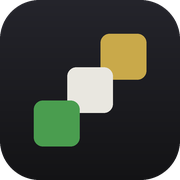
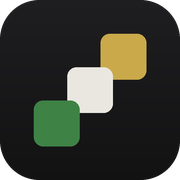
Tek palet: simgeler renkleri style.css'ten okur, iOS simgesi ve açılış ekranı
ikon_uret.py artık sabit renk taşımaz ve Linux'ta da çalışır (Liberation /
DejaVu yedeği). tools/uygulama/simge-1024.png (opak, köşesiz) ve
acilis-2732.png üretilir.

Claude-Session: https://claude.ai/code/session_01C8YUUGzBwuF5YnZnuwjbBR

Changed region(s): [[0.1667, 0.5556, 0.4444, 0.8333], [0.6111, 0.5833, 0.6389, 0.6111]]

diff --git a/tools/ikon_uret.py b/tools/ikon_uret.py
@@ -1,37 +1,75 @@
 #!/usr/bin/env python3
 # -*- coding: utf-8 -*-
 """
-Sözcük Merdiveni — favicon ve sosyal kart üretici
---------------------------------------------------
-Pillow ile markalı ikonları çizer (favicon.svg / og-image.svg ile aynı motif):
-koyu zeminde yükselen üç kutu (yeşil → krem → amber) — kelime oyunu + merdiven.
+Sözcük Merdiveni — simge, sosyal kart ve uygulama görseli üretici
+------------------------------------------------------------------
+Pillow ile marka işaretini çizer: koyu zeminde yükselen üç kutu
+(yeşil → krem → amber) — kelime oyunu + merdiven.
 
-Üretilenler (proje köküne):
-  favicon.ico            16/32/48 çok boyutlu (klasik, Google + tarayıcılar)
-  favicon-48.png         Google arama sonucu ikonu
-  favicon-192.png        Android
-  apple-touch-icon.png   180x180, iOS ana ekran
-  og-image.png           1200x630 sosyal paylaşım kartı
+Renkler bu dosyada YAZMAZ: style.css içindeki :root belirteçlerinden okunur
+(tek palet; bkz. ekip/tasarim-sistemi.md). favicon.svg ve tools/og-image.svg
+aynı değerlerin elle tutulan kopyasıdır; tools/test_veri.py eşleşmeyi denetler.
+
+Üretilenler:
+  favicon.ico                    16/32/48 çok boyutlu (Google + tarayıcılar)
+  favicon-48.png                 Google arama sonucu ikonu
+  favicon-192.png                Android
+  apple-touch-icon.png           180x180, iOS ana ekran
+  og-image.png                   1200x630 sosyal paylaşım kartı
+  tools/uygulama/simge-1024.png  iOS uygulama simgesi: opak RGB, köşesiz
+  tools/uygulama/acilis-2732.png iOS açılış ekranı: zemin + ortada işaret
 
 Kullanım:  python3 tools/ikon_uret.py
-(Yeniden çalıştırmak için Pillow gerekir: pip install Pillow)
+(Pillow gerekir: pip install Pillow)
 """
 
+import re
+import sys
 from pathlib import Path
 from PIL import Image, ImageDraw, ImageFont
 
 KOK = Path(__file__).resolve().parent.parent
-FONT_BOLD = "/System/Library/Fonts/Supplemental/Arial Bold.ttf"
-FONT_REG = "/System/Library/Fonts/Supplemental/Arial.ttf"
+UYGULAMA = KOK / "tools" / "uygulama"
 
-KOYU_UST = (36, 36, 43)      # #24242b
-KOYU_ALT = (19, 19, 21)      # #131315
-YESIL = (74, 157, 79)        # #4a9d4f
-KREM = (233, 231, 224)       # #e9e7e0
-AMBER = (201, 169, 74)       # #c9a94a
-GRI = (154, 154, 160)
-GRI2 = (201, 201, 208)
-BEYAZ = (245, 245, 247)
+
+def belirtec_oku():
+    """style.css :root bloğundaki hex renkleri {ad: (r, g, b)} olarak döndürür."""
+    css = (KOK / "style.css").read_text(encoding="utf-8")
+    kok = css[css.index(":root"):]
+    kok = kok[:kok.index("}")]
+    return {ad: tuple(int(h[i:i + 2], 16) for i in (0, 2, 4))
+            for ad, h in re.findall(r"--([\w-]+):\s*#([0-9a-fA-F]{6})\b", kok)}
+
+
+RENK = belirtec_oku()
+ZEMIN_UST = RENK["surface"]
+ZEMIN_ALT = RENK["bg"]
+YESIL = RENK["green"]
+KREM = RENK["cream"]
+AMBER = RENK["amber"]
+METIN = RENK["text"]
+SOLUK = RENK["text-dim"]
+
+
+def font_bul(adaylar):
+    """İlk bulunan yazı tipi dosyası. Arial ile Liberation Sans aynı ölçülere
+    sahiptir; kart macOS'ta da Linux'ta da aynı yerleşimle çıkar."""
+    for yol in adaylar:
+        if Path(yol).exists():
+            return yol
+    sys.exit("Yazı tipi bulunamadı. Şunlardan biri kurulu olmalı:\n  " + "\n  ".join(adaylar))
+
+
+FONT_BOLD = font_bul([
+    "/System/Library/Fonts/Supplemental/Arial Bold.ttf",
+    "/usr/share/fonts/truetype/liberation/LiberationSans-Bold.ttf",
+    "/usr/share/fonts/truetype/dejavu/DejaVuSans-Bold.ttf",
+])
+FONT_REG = font_bul([
+    "/System/Library/Fonts/Supplemental/Arial.ttf",
+    "/usr/share/fonts/truetype/liberation/LiberationSans-Regular.ttf",
+    "/usr/share/fonts/truetype/dejavu/DejaVuSans.ttf",
+])
 
 SS = 4  # süper örnekleme (kenarlar yumuşasın diye yüksek çöz + küçültme)
 
@@ -45,25 +83,42 @@ def dikey_gradyan(w, h, ust, alt):
     return taban.resize((w, h))
 
 
-def favicon_ciz(boy):
-    """Verilen kenar uzunluğunda favicon (RGBA) döndürür."""
+def isaret_ciz(d, x0, y0, boy):
+    """Marka işareti: (x0, y0) köşesinden başlayan boy×boy alana üç kutu.
+    Oranlar favicon.svg ile aynı (320 birimlik alanda 130'luk kutu, 95 adım)."""
+    k = boy / 320
+    for (x, y, renk) in [(190, 0, AMBER), (95, 95, KREM), (0, 190, YESIL)]:
+        d.rounded_rectangle([x0 + x * k, y0 + y * k, x0 + (x + 130) * k, y0 + (y + 130) * k],
+                            radius=26 * k, fill=renk)
+
+
+def simge_ciz(boy, yuvarlak=True):
+    """Kare simge. yuvarlak=True: saydam köşeli RGBA (favicon).
+    yuvarlak=False: tam dolu, opak RGB (iOS köşeyi kendi maskeler)."""
     S = boy * SS
-    img = Image.new("RGBA", (S, S), (0, 0, 0, 0))
-
-    # Yuvarlak köşeli koyu zemin (gradyan) — yuvarlak maske ile
-    grad = dikey_gradyan(S, S, KOYU_UST, KOYU_ALT).convert("RGBA")
-    maske = Image.new("L", (S, S), 0)
-    ImageDraw.Draw(maske).rounded_rectangle([0, 0, S - 1, S - 1], radius=int(112 * S / 512), fill=255)
-    img.paste(grad, (0, 0), maske)
-
-    d = ImageDraw.Draw(img)
-    k = S / 512  # 512 mantıksal → gerçek ölçek
-    r = int(26 * k)
-    # amber (üst), krem (orta), yeşil (alt) — köşegen
-    for (x, y, renk) in [(286, 96, AMBER), (191, 191, KREM), (96, 286, YESIL)]:
-        d.rounded_rectangle([x * k, y * k, (x + 130) * k, (y + 130) * k], radius=r, fill=renk)
-
+    grad = dikey_gradyan(S, S, ZEMIN_UST, ZEMIN_ALT)
+    if yuvarlak:
+        img = Image.new("RGBA", (S, S), (0, 0, 0, 0))
+        maske = Image.new("L", (S, S), 0)
+        ImageDraw.Draw(maske).rounded_rectangle([0, 0, S - 1, S - 1], radius=int(112 * S / 512), fill=255)
+        img.paste(grad, (0, 0), maske)
+    else:
+        img = grad
+    isaret_ciz(ImageDraw.Draw(img), 96 * S / 512, 96 * S / 512, 320 * S / 512)
     return img.resize((boy, boy), Image.LANCZOS)
+
+
+def acilis_ciz(boy=2732, isaret=640):
+    """Açılış ekranı: düz zemin (uygulamanın zeminiyle aynı, geçiş görünmez)
+    ve ortada işaret. İşaret, her ekran oranında görünen ortadaki
+    ~1200 px güvenli alanın içinde kalır."""
+    S = isaret * SS
+    katman = Image.new("RGBA", (S, S), (0, 0, 0, 0))
+    isaret_ciz(ImageDraw.Draw(katman), 0, 0, S)
+    katman = katman.resize((isaret, isaret), Image.LANCZOS)
+    img = Image.new("RGB", (boy, boy), ZEMIN_ALT)
+    img.paste(katman, ((boy - isaret) // 2, (boy - isaret) // 2), katman)
+    return img
 
 
 def yaz(d, xy, metin, font, renk, spacing=0, anchor="lm"):
@@ -80,7 +135,7 @@ def yaz(d, xy, metin, font, renk, spacing=0, anchor="lm"):
 def og_ciz():
     """1200x630 sosyal paylaşım kartı."""
     W, H = 1200 * 2, 630 * 2       # 2x render, sonra küçült
-    img = dikey_gradyan(W, H, KOYU_UST, KOYU_ALT).convert("RGBA")
+    img = dikey_gradyan(W, H, ZEMIN_UST, ZEMIN_ALT)
     d = ImageDraw.Draw(img)
     k = 2  # 1200 mantıksal → gerçek ölçek
 
@@ -93,34 +148,35 @@ def og_ciz():
     f_url = ImageFont.truetype(FONT_BOLD, 34 * k)
 
     yaz(d, (90 * k, 222 * k), "SÖZCÜK YOLU", f_brand, AMBER, spacing=7 * k)
-    d.text((88 * k, 292 * k), "Sözcük Merdiveni", font=f_title, fill=BEYAZ, anchor="lm")
-    d.text((90 * k, 390 * k), "Türkçe kelime oyunu · Her gün yeni bulmaca", font=f_tag, fill=GRI2, anchor="lm")
-    d.text((90 * k, 445 * k), "Ücretsiz · Üyeliksiz · Mobil uyumlu", font=f_sub, fill=GRI, anchor="lm")
+    d.text((88 * k, 292 * k), "Sözcük Merdiveni", font=f_title, fill=METIN, anchor="lm")
+    d.text((90 * k, 390 * k), "Türkçe kelime oyunu · Her gün yeni bulmaca", font=f_tag, fill=METIN, anchor="lm")
+    d.text((90 * k, 445 * k), "Ücretsiz · Üyeliksiz · Mobil uyumlu", font=f_sub, fill=SOLUK, anchor="lm")
     d.text((90 * k, 553 * k), "sözcükyolu.com", font=f_url, fill=AMBER, anchor="lm")
 
-    # Sağ: yükselen kutu ikonu
-    ox, oy, r = 902 * k, 150 * k, 20 * k
-    for (x, y, renk) in [(150, 0, AMBER), (75, 75, KREM), (0, 150, YESIL)]:
-        d.rounded_rectangle([ox + x * k, oy + y * k, ox + (x + 100) * k, oy + (y + 100) * k], radius=r, fill=renk)
+    isaret_ciz(d, 902 * k, 150 * k, 250 * k)    # sağda marka işareti
 
     return img.resize((1200, 630), Image.LANCZOS)
 
 
 def main():
     # Favicon PNG'leri
-    favicon_ciz(48).save(KOK / "favicon-48.png")
-    favicon_ciz(192).save(KOK / "favicon-192.png")
-    favicon_ciz(180).save(KOK / "apple-touch-icon.png")
+    simge_ciz(48).save(KOK / "favicon-48.png")
+    simge_ciz(192).save(KOK / "favicon-192.png")
+    simge_ciz(180).save(KOK / "apple-touch-icon.png")
 
     # Çok boyutlu favicon.ico (16/32/48)
-    ico = favicon_ciz(64)
-    ico.save(KOK / "favicon.ico", sizes=[(16, 16), (32, 32), (48, 48)])
+    simge_ciz(64).save(KOK / "favicon.ico", sizes=[(16, 16), (32, 32), (48, 48)])
 
     # Sosyal kart
-    og_ciz().convert("RGB").save(KOK / "og-image.png", quality=92)
+    og_ciz().save(KOK / "og-image.png")
 
-    print("Üretildi: favicon.ico, favicon-48.png, favicon-192.png, "
-          "apple-touch-icon.png, og-image.png")
+    # iOS uygulaması (yollar iOS deposuyla sözleşmedir; adları değiştirmeyin)
+    UYGULAMA.mkdir(exist_ok=True)
+    simge_ciz(1024, yuvarlak=False).save(UYGULAMA / "simge-1024.png")
+    acilis_ciz().save(UYGULAMA / "acilis-2732.png")
+
+    print("Üretildi: favicon.ico, favicon-48.png, favicon-192.png, apple-touch-icon.png, "
+          "og-image.png, tools/uygulama/simge-1024.png, tools/uygulama/acilis-2732.png")
 
 
 if __name__ == "__main__":
